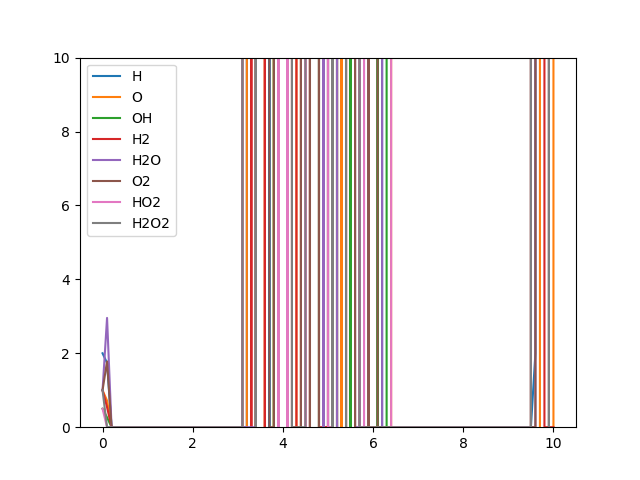
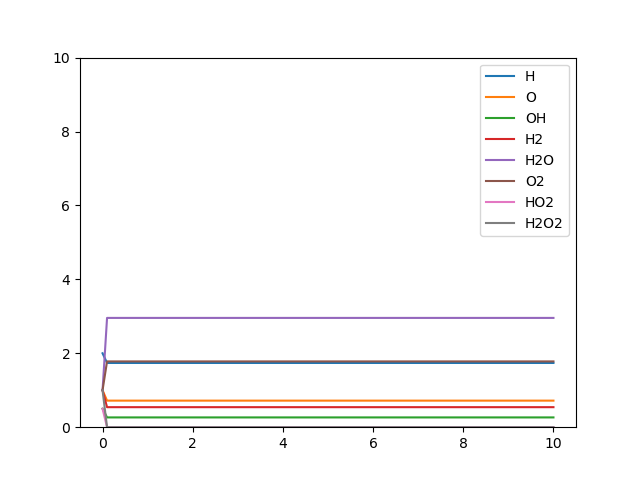
Updated ODE_int_solver

diff --git a/chemkin/solver/ODEint_solver.py b/chemkin/solver/ODEint_solver.py
@@ -1,38 +1,45 @@
 """
-The ODEint_solver.py contains a class ODE_int_solver which will return time evolution
+The ODEint_solver.py contains a class ODE_int_solver which will return time
+evolution
  of a specie i over specified time range t.
 """
 from scipy.integrate import odeint
+
 from chemkin.reaction.elementary_rxn import ElementaryRxn
 
 
 class ODE_int_solver():
-    #Integrates the time evolution of a concentration of a specie i over specified time range
-    
-    def __init__(self, temp, xi, ki, b_ki, sys_vi_p, sys_vi_dp):
-        
-        self.temp = temp #temperature will be held constant in the calculation
-        
-        self.xi = xi #need initial concentration of ALL species
+    # Integrates the time evolution of a concentration of a specie i over
+    # specified time range
+
+    def __init__ (self, temp, xi, ki, b_ki, sys_vi_p, sys_vi_dp):
+
+        self.temp = temp  # temperature will be held constant in the calculation
+        self.critical_t = None
+        self.xi = xi  # need initial concentration of ALL species
         self.ki = ki
         self.b_ki = b_ki
         self.sys_vi_p = sys_vi_p
         self.sys_vi_dp = sys_vi_dp
-        
-    def solve(self, time_int):
-        
-        #for starters, focus on time evolution of ALL species
-        rxn = ElementaryRxn(self.ki, self.b_ki, self.xi, self.sys_vi_p, self.sys_vi_dp)
-        
-        i = 0
-        def rxn_rate(x, t):
-            nonlocal i
+
+    def equil_met(self):
+        return False
+
+    def solve (self, time_int):
+
+        # for starters, focus on time evolution of ALL species
+        rxn = ElementaryRxn(self.ki, self.b_ki, self.xi, self.sys_vi_p,
+                            self.sys_vi_dp)
+
+
+        def rxn_rate (x, t):
             rxn.xi = x
-            i += 1
-            # print(i, x)
+            if self.equil_met():
+                if self.critical_t is None:
+                    self.critical_t = t
+
             return rxn.reaction_rate()
-        
-        sol = odeint(func=rxn_rate, y0=self.xi, t=time_int)
-        
-        return sol
-    
+
+        sol = odeint(func=rxn_rate, y0=self.xi, t=time_int, mxstep=5000000)
+
+        return sol, self.critical_t

diff --git a/setup.py b/setup.py
@@ -1,7 +1,7 @@
 from setuptools import setup
 
 setup(name='chemkin',
-      version='2.8',
+      version='3.1',
       description='The best chemkin package',
       url='https://github.com/G12-cs207-FinalProject/cs207-FinalProject.git',
       author='Monsieur Package du Parser',
@@ -18,3 +18,4 @@ setup(name='chemkin',
                 'chemkin.viz.tests'],
       package_data={'chemkin':['thermodynamics/*.sqlite',
                                'xml-files/*.xml']})
+

diff --git a/chemkin/viz/summary.py b/chemkin/viz/summary.py
@@ -61,10 +61,13 @@ def plot_species_concentration(parsed_data_list, xi):
 		sol = my_solver.solve(time_steps)
 		print(np.min(sol), np.max(sol))
 
+
+
 		for i, s in enumerate(species):
 			plt.plot(time_steps, sol[:, i], label='{}'.format(s))
-			plt.legend()
-			plt.ylim(0, 10)
+
+		plt.legend()
+		plt.ylim(0, 10)
 		plt.savefig('evolution_{}.png'.format(T))
 
 	return test_flag
